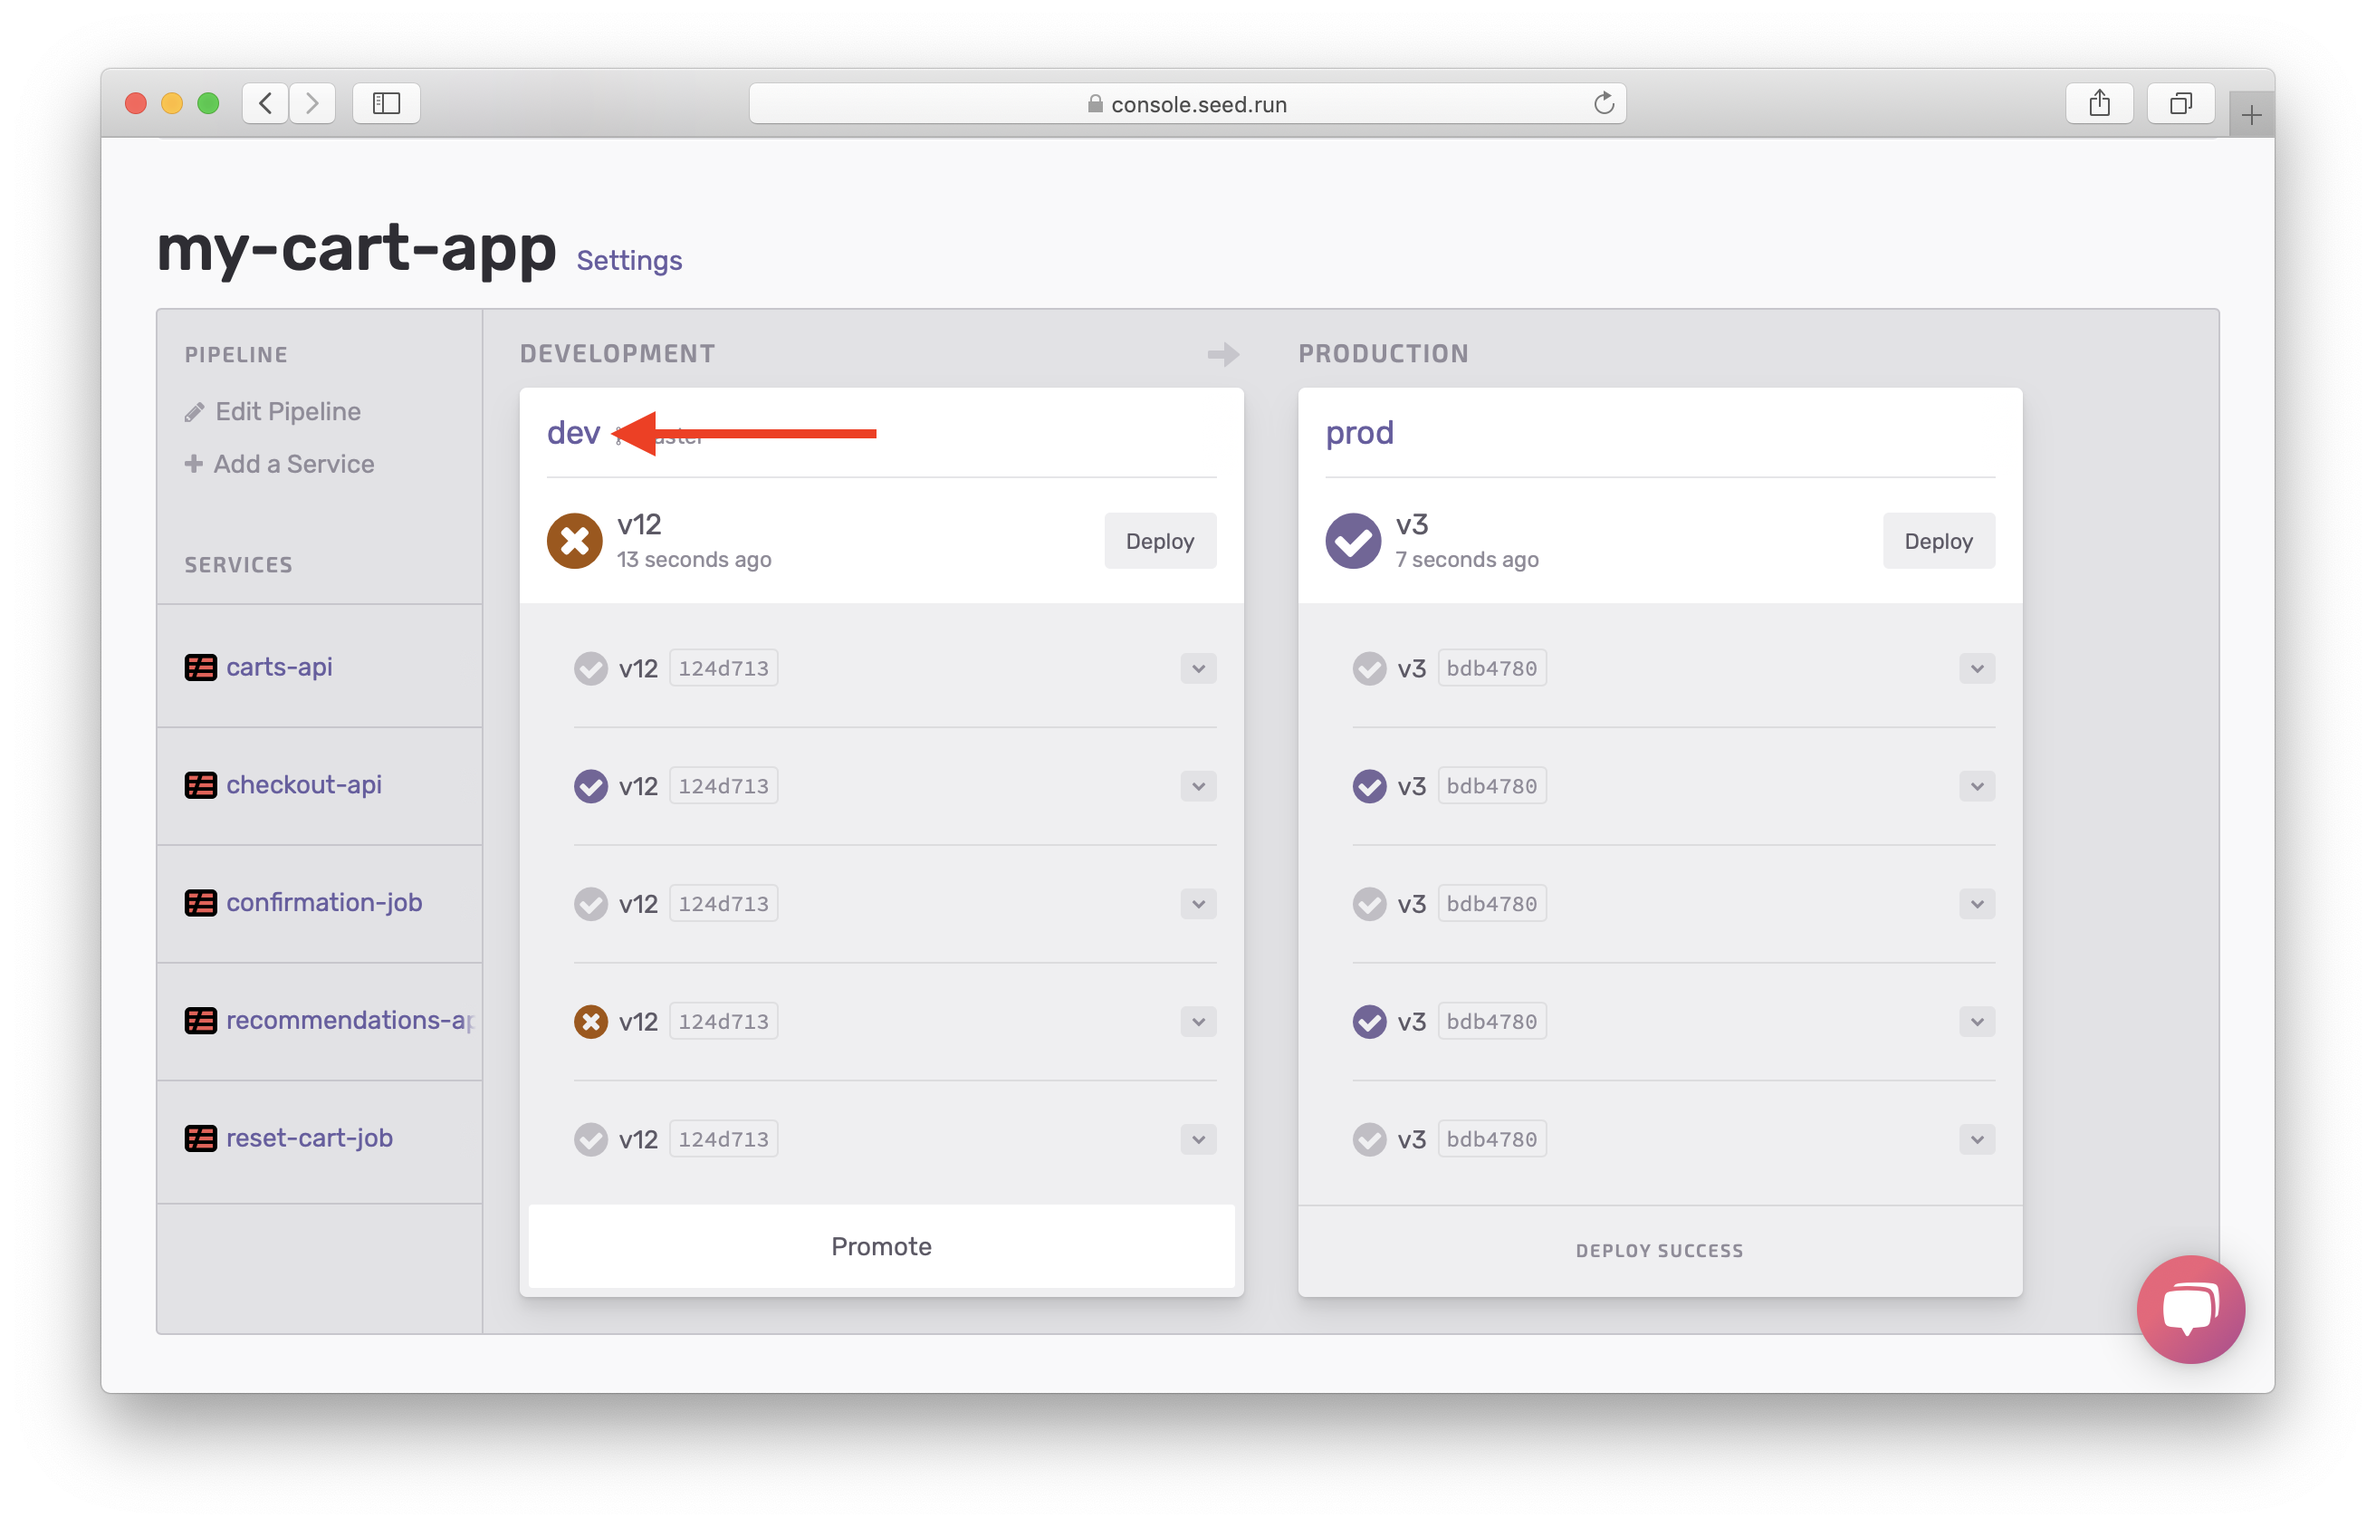
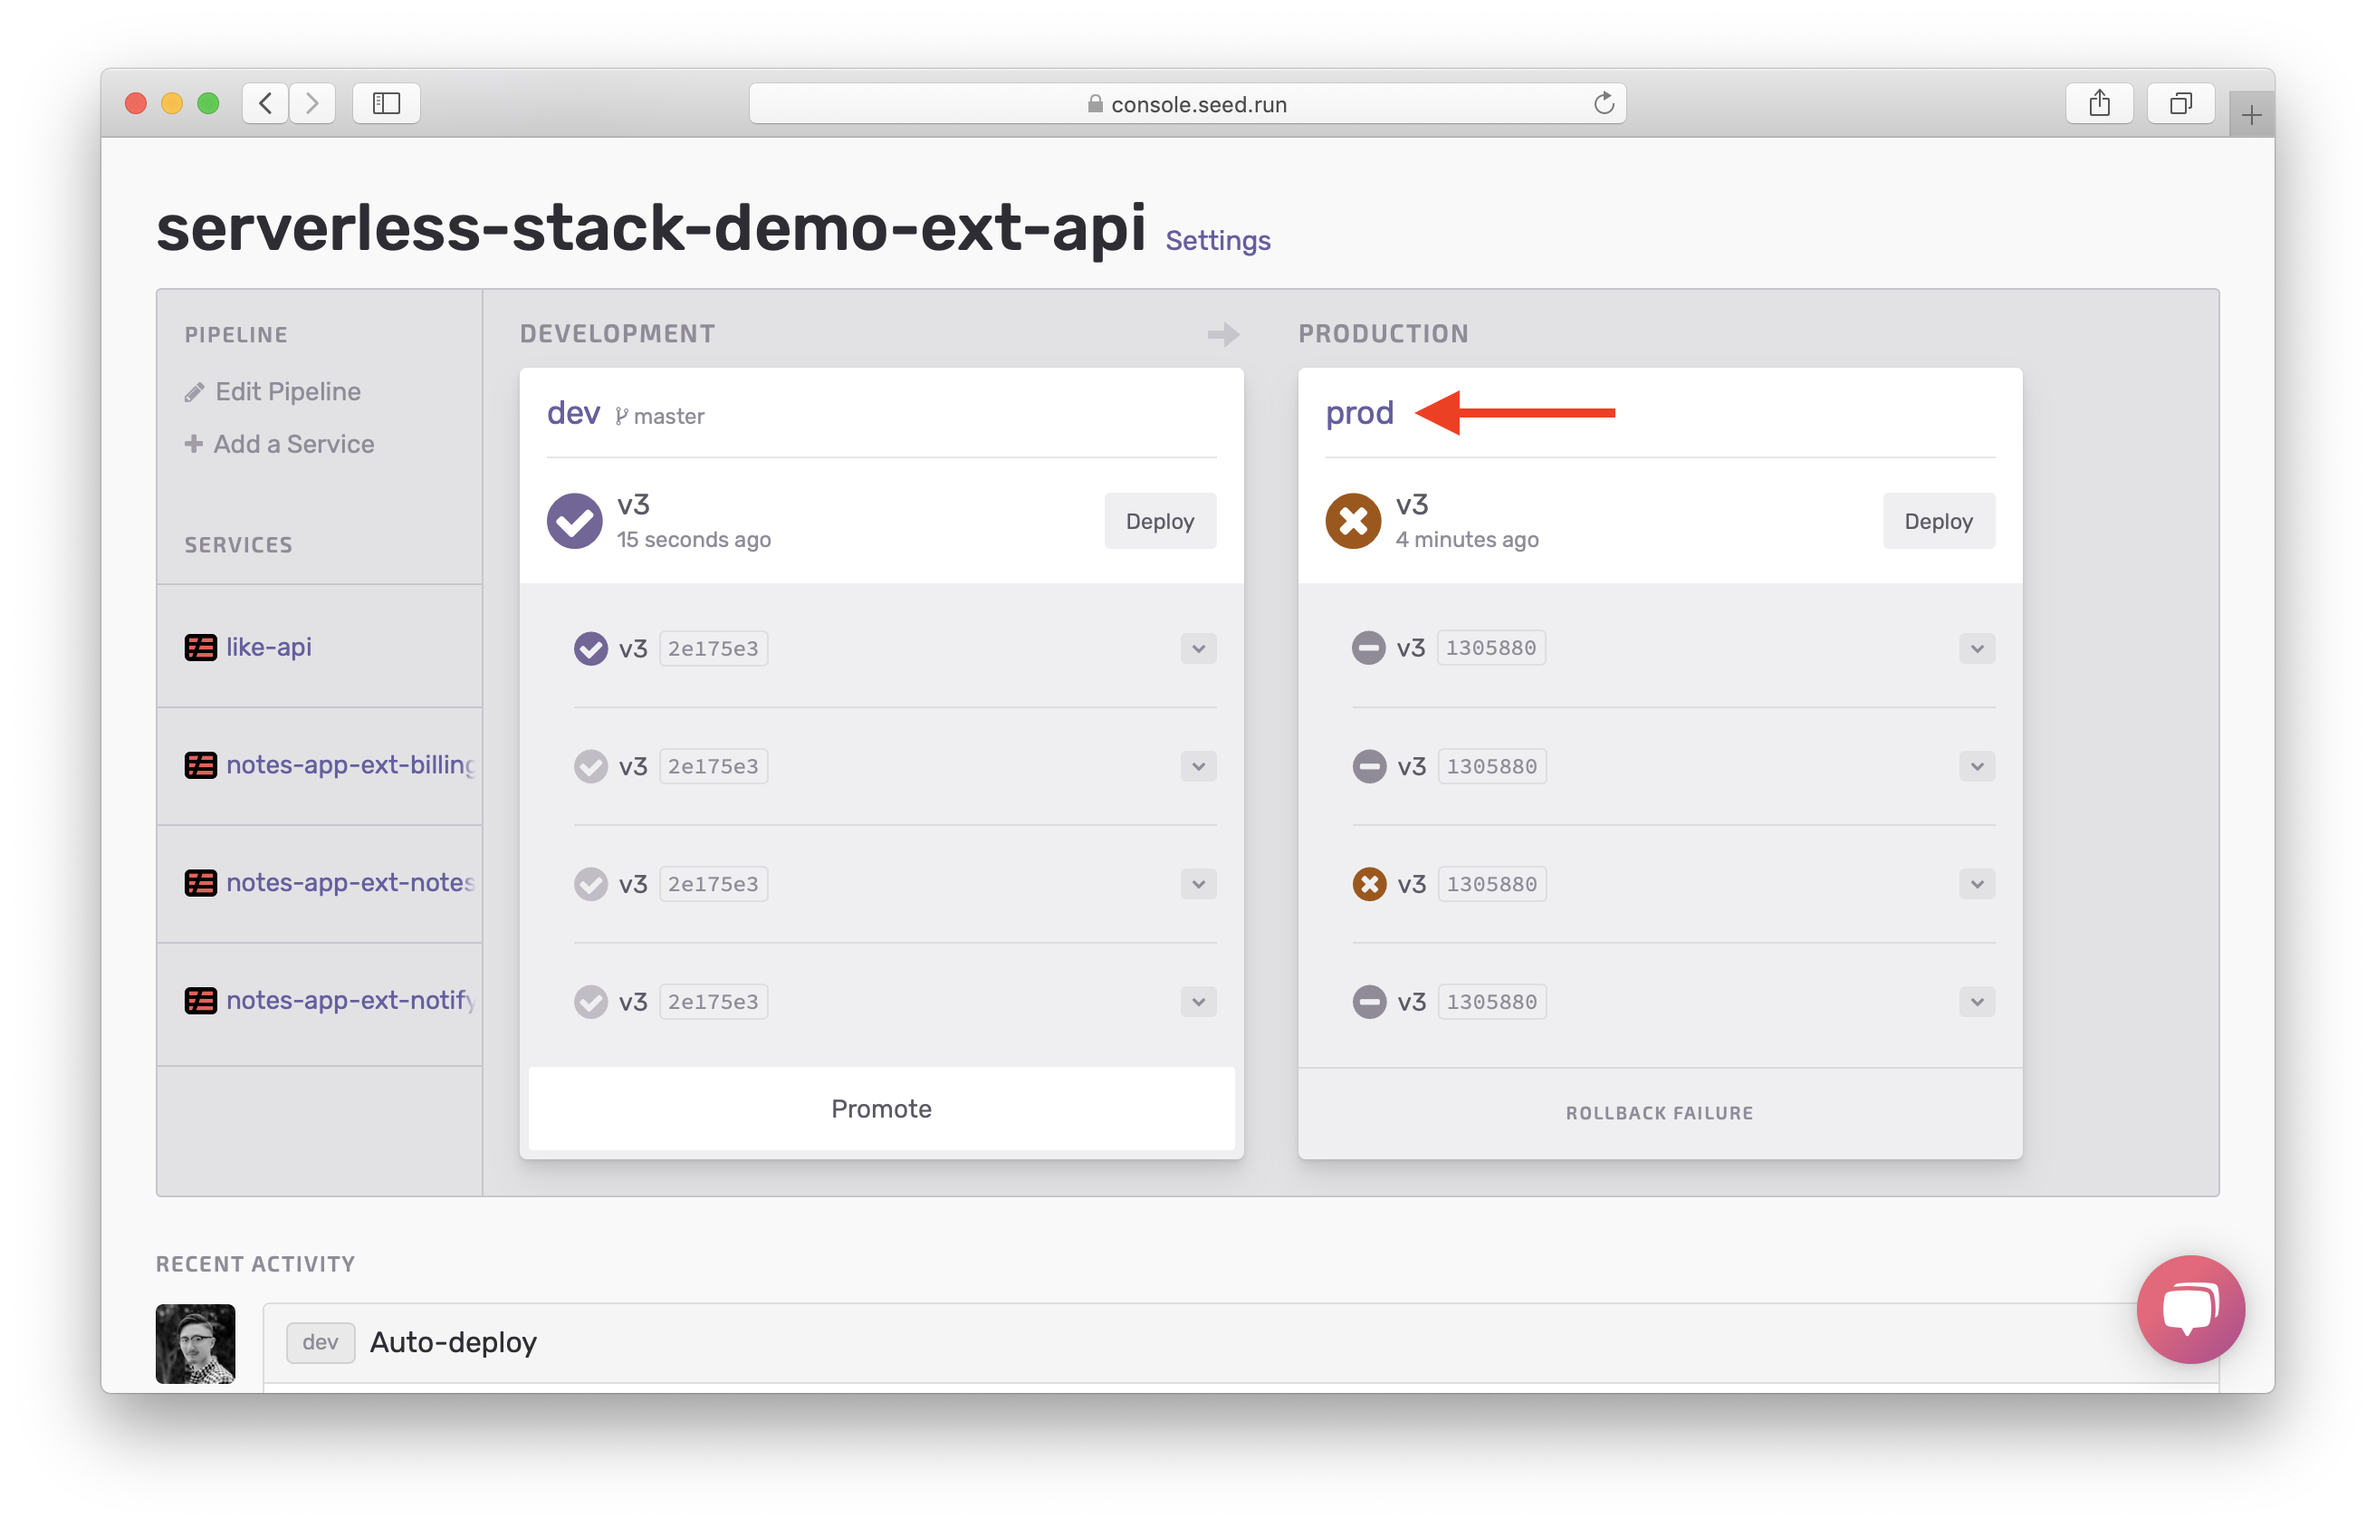
Add screenshots

diff --git a/_chapters/rollback.md b/_chapters/rollback.md
@@ -10,7 +10,7 @@ Making sure that you are able to rollback your Serverless deployments is critica
 
 # Rollback to previous build
 
-To rollback to a previous build, go to your Seed app. Notice we have pushed some faulty code to `dev` stage. Let's select `dev` to see a list of historical builds in the stage.
+To rollback to a previous build, go to your Seed app. Notice we have pushed some faulty code to `prod` stage. Let's select `prod` to see a list of historical builds in the stage.
 
 ![](/assets/best-practices/rollback-1.png)
 
